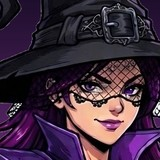
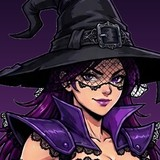
v225: reframe Kael and Nyx faces

diff --git a/game.js b/game.js
@@ -5545,7 +5545,7 @@ function drawTitle() {
 // Écran de sélection : personnages en entier à gauche (joueur 1) et à droite (joueur 2), grille 4 x 2 au centre
 const SEL_KEYS = ['hiro', 'axel', 'vesper', 'grog', 'zephyr', 'nyx', 'kael', 'vane'];   // indices DEFS
 const SEL_ART = SEL_KEYS.map(k => { const im = new Image(); lazySrc(im, 'sel_' + k + '.webp?v=1'); return im; });
-const SEL_FACE = SEL_KEYS.map(k => { const im = new Image(); lazySrc(im, 'face_' + k + '.jpg?v=4'); return im; });
+const SEL_FACE = SEL_KEYS.map(k => { const im = new Image(); lazySrc(im, 'face_' + k + '.jpg?v=5'); return im; });
 const ADD_BTN = [0, 0, 0, 0], QR_POP = [0, 0, 0, 0];
 const inRect = (t, r) => t.x >= r[0] && t.x <= r[0] + r[2] && t.y >= r[1] && t.y <= r[1] + r[3];
 const imgOk = im => im && im.complete && im.naturalWidth;
